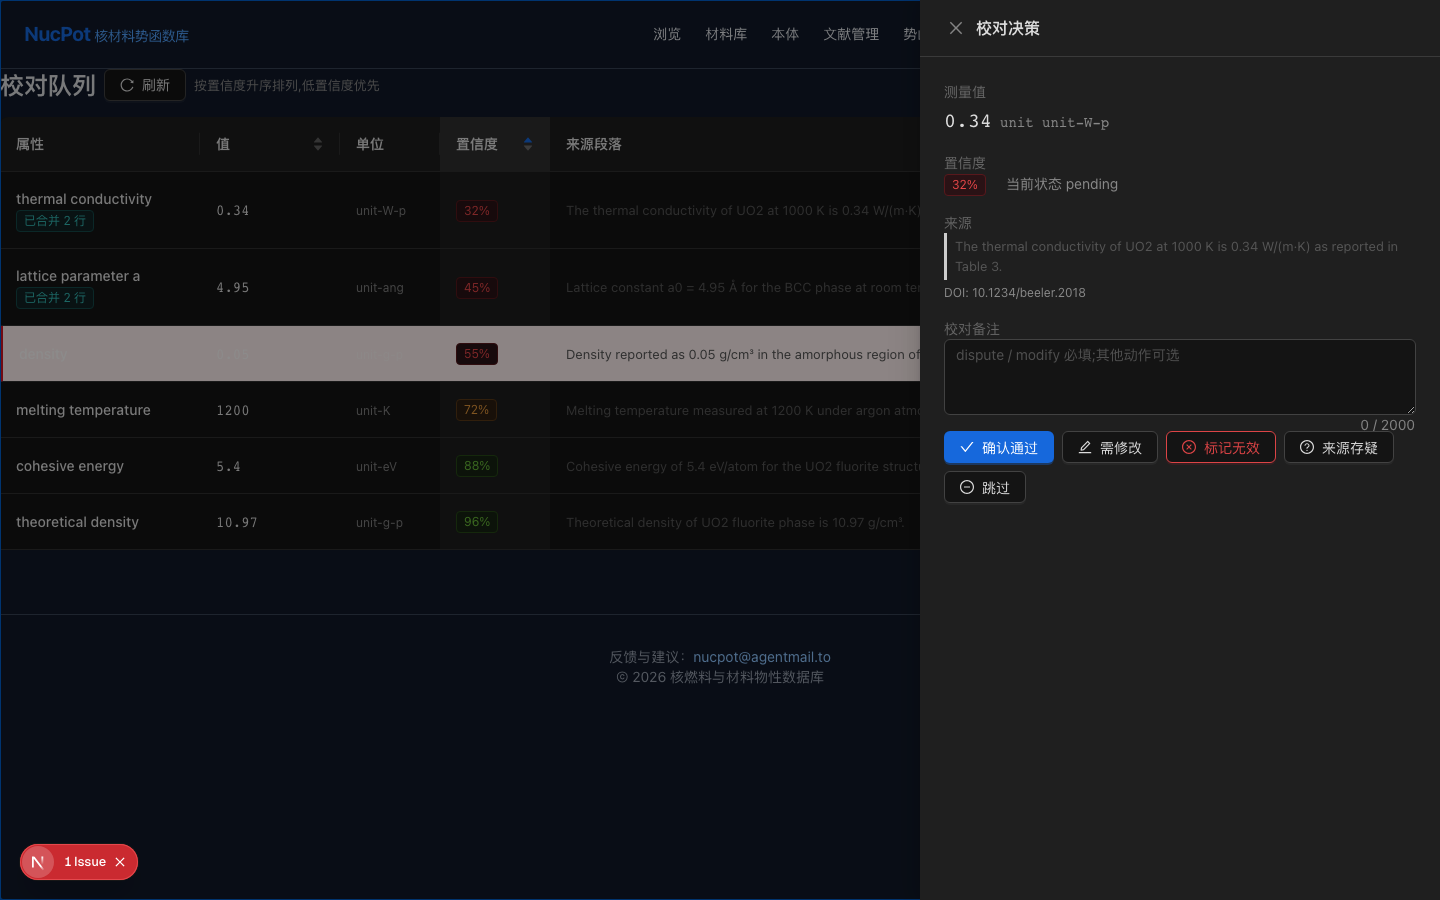
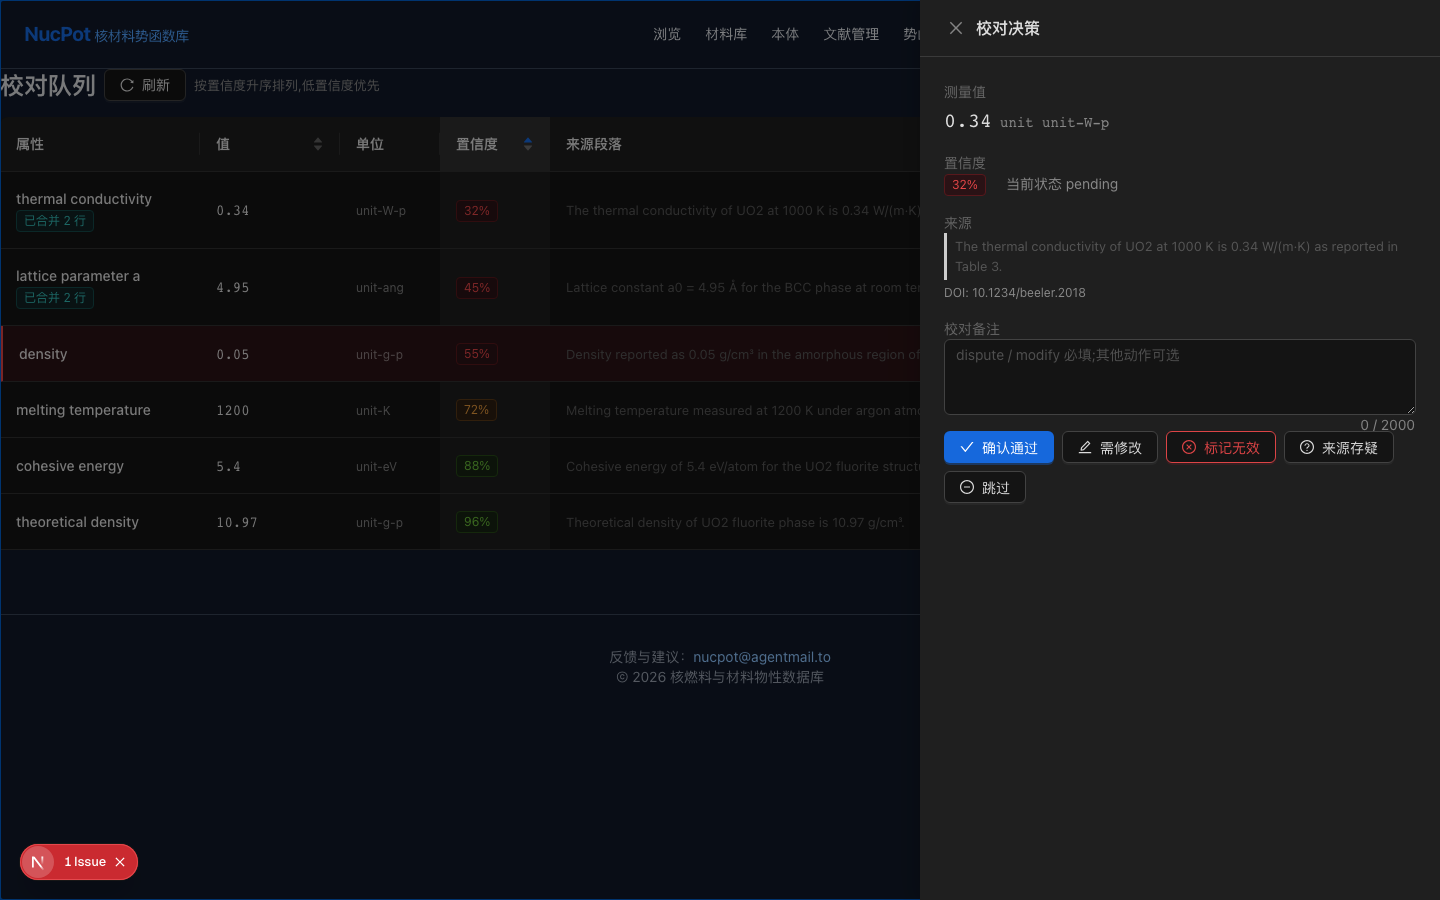
fix(web): NFM-4554 红行 used light-palette reds under a dark-only theme
UXDesigner Visual-Truth Gate round 2. The round-1 bounce-back fix wired
spec §4.3 红行 correctly at the table level, but styled it with the antd
LIGHT error ramp (#fff1f0 resting / #ffccc7 hover).

The app mounts unconditionally under `theme.darkAlgorithm`
(components/antd-provider.tsx), so those near-white surfaces sat under
the dark theme's light foreground text: the physically-invalid row was
rendered as light-gray text on near-white, making it the ONLY illegible
row in the table. That inverts the intent of §4.3 — the row that most
needs attention became the one that could not be read.

Swapped to the antd DARK red ramp so inherited foreground keeps AA
contrast:
  red-1 (dark) #2a1215 → resting surface
  red-2 (dark) #431418 → hover surface
  red-6 (dark) #dc4446 → accent left border

Verified by re-shooting the QA artifacts (chromium, dev server on 3456,
Playwright route interception): the density row (validity_check='fail')
now reads clearly with a red left border. 25/25 review-queue component
tests green.

qa-artifacts/nfm-4554-{desktop,mobile}-{queue,drawer}.png regenerated by
UXDesigner (independent capture, not LE's round-2 set).

Changed region(s): [[0.0, 0.3422, 0.6562, 0.4356]]

diff --git a/apps/web/src/components/admin/review-queue/review-queue.css b/apps/web/src/components/admin/review-queue/review-queue.css
@@ -4,16 +4,30 @@
  *   .review-row-physically-invalid → 红行 (spec §4.3, G1-D wire-up).
  *   The red treatment only fires when validity_check.status='fail';
  *   the row title attribute carries the reason for hover.
+ *
+ * Theme contract (UXDesigner Visual-Truth Gate round 2):
+ *   The app is mounted unconditionally under antd `theme.darkAlgorithm`
+ *   (see components/antd-provider.tsx). The first implementation used the
+ *   antd LIGHT error palette (#fff1f0 / #ffccc7), which painted a near-white
+ *   surface under the dark theme's light foreground text — the invalid row
+ *   became the ONLY illegible row in the table, inverting the intent of
+ *   spec §4.3. These values are the antd DARK red ramp, so the inherited
+ *   foreground keeps AA contrast:
+ *     red-1 (dark) #2a1215 → resting surface
+ *     red-2 (dark) #431418 → hover surface
+ *     red-6 (dark) #dc4446 → accent border
+ *   If the app ever gains a light theme, move these to `cssVar` tokens
+ *   (--ant-color-error-bg / --ant-color-error) instead of hardcoding.
  */
 
 .review-row-physically-invalid > td {
-  background-color: #fff1f0 !important;
+  background-color: #2a1215 !important;
 }
 
 .review-row-physically-invalid > td:first-child {
-  border-left: 3px solid #cf1322 !important;
+  border-left: 3px solid #dc4446 !important;
 }
 
 .review-row-physically-invalid:hover > td {
-  background-color: #ffccc7 !important;
+  background-color: #431418 !important;
 }
